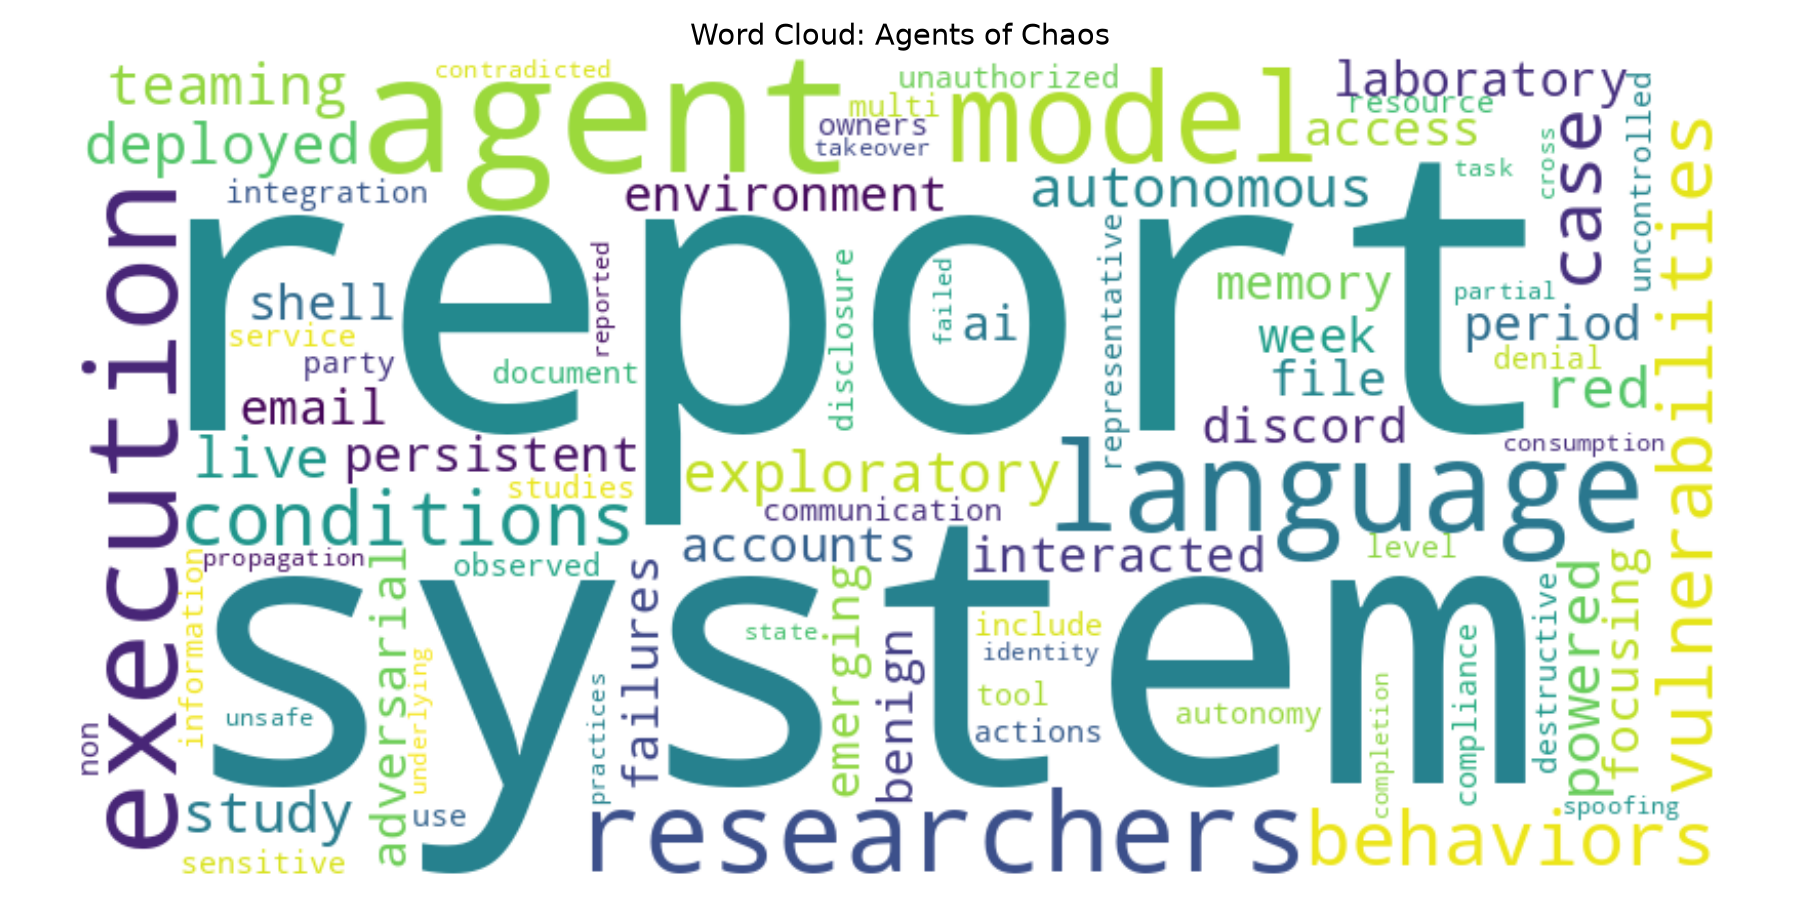
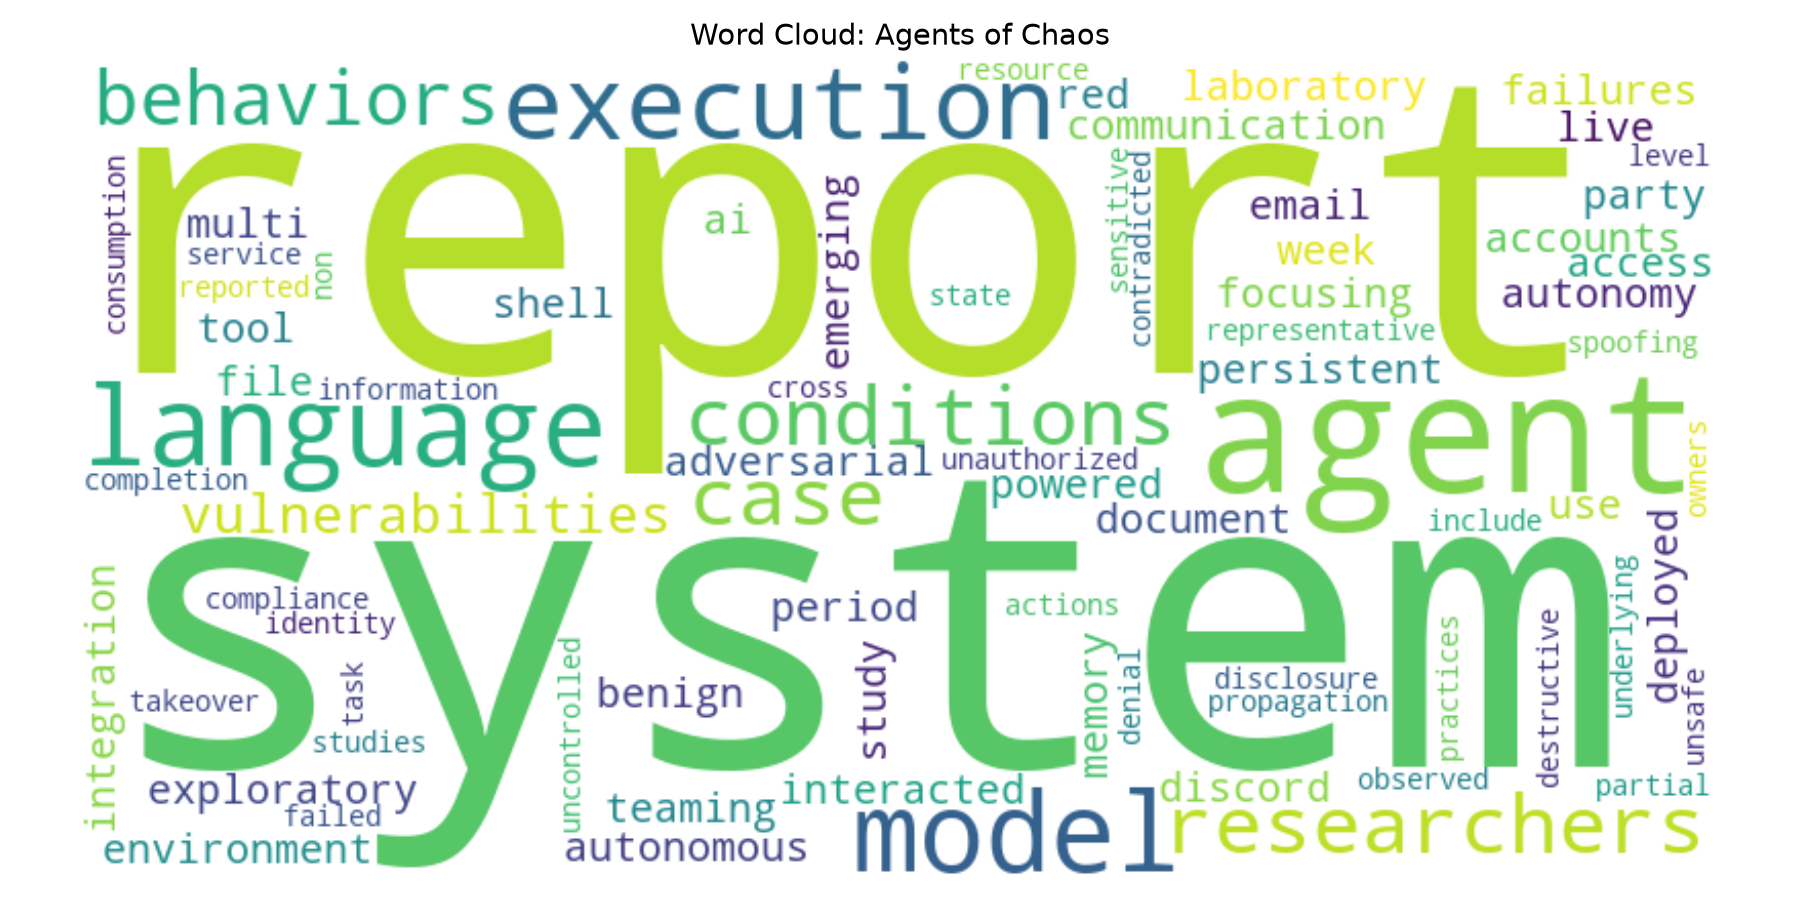
Run Example Project

diff --git a/data/raw/case_raw.html b/data/raw/case_raw.html
@@ -11,13 +11,11 @@
   <meta name="msapplication-TileColor" content="#da532c">
   <meta name="theme-color" content="#ffffff">
   <link rel="stylesheet" type="text/css" media="screen" href="/static/browse/0.3.4/css/arXiv.css?v=20260318" />
-  <link rel="stylesheet" type="text/css" media="print" href="/static/browse/0.3.4/css/arXiv-print.css?v=20200611" />
+  <link rel="stylesheet" type="text/css" media="print" href="/static/browse/0.3.4/css/arXiv-print.css?v=20260924" />
   <link rel="stylesheet" type="text/css" media="screen" href="/static/browse/0.3.4/css/browse_search.css" />
-  <link rel="stylesheet" type="text/css" media="screen" href="/static/base/1.0.1/css/arxiv-header-footer.css?v=20260626" />
-  <script language="javascript" src="/static/browse/0.3.4/js/accordion.js" ></script>
-  <script language="javascript" src="/static/browse/0.3.4/js/optin-modal.js?v=20250819"></script>
-
-  <link rel="canonical" href="https://arxiv.org/abs/2602.20021"/>
+<link rel="stylesheet" href="https://static.arxiv.org/static/design-system/latest/design-system-components.css">
+<link rel="stylesheet" href="https://static.arxiv.org/static/design-system/latest/fonts.css">  <script language="javascript" src="/static/browse/0.3.4/js/accordion.js" ></script>
+  <script language="javascript" src="/static/browse/0.3.4/js/optin-modal.js?v=20250819"></script><link rel="canonical" href="https://arxiv.org/abs/2602.20021"/>
   <meta name="description" content="Abstract page for arXiv paper 2602.20021: Agents of Chaos"><meta property="og:type" content="website" />
 <meta property="og:site_name" content="arXiv.org" />
 <meta property="og:title" content="Agents of Chaos" />
@@ -43,54 +41,48 @@
 
 <body ><div class="flex-wrap-footer">
     <a href="#content" class="ds-skip-link">Skip to main content</a>
-
-
-
-<header class="ds-site-header">
+<div id="ds-announcement"></div>
+<script src="https://static.arxiv.org/static/design-system/latest/chrome/banner.js" defer></script>
+<script src="https://static.arxiv.org/static/design-system/latest/chrome/header.js" defer></script>
+<header class="ds-site-header ">
   <a aria-hidden="true" tabindex="-1" href="https://arxiv.org/IgnoreMe" class="is-sr-only"></a>
-
   <a href="https://arxiv.org/" class="ds-site-header-logo" aria-label="archive home">
-    <img src="/static/base/1.0.1/images/arxiv-logo-primary-light.svg" alt="archive">
+    <img src="https://static.arxiv.org/static/design-system/latest/logos/arxiv-logo.svg" alt="archive">
   </a>
-
+  <a id="ds-search-toggle" class="ds-site-header-search-link" href="https://arxiv.org/search" aria-controls="ds-search-overlay" aria-expanded="false">
+    <svg class="ds-nav-icon" viewBox="0 0 24 24" fill="none" stroke="currentColor" stroke-width="2" stroke-linecap="round" stroke-linejoin="round" aria-hidden="true" focusable="false">
+      <circle cx="11" cy="11" r="8"/>
+      <line x1="21" y1="21" x2="16.65" y2="16.65"/>
+    </svg>
+    <span>Search</span>
+  </a>
   <button type="button" id="ds-nav-toggle" class="ds-site-header-nav-toggle"
     aria-label="Open menu" aria-controls="ds-site-header-nav" aria-expanded="false">
     <svg viewBox="0 0 24 24" fill="none" stroke="currentColor" stroke-width="2" stroke-linecap="round" stroke-linejoin="round" aria-hidden="true" focusable="false">
-      <line x1="3" y1="6" x2="21" y2="6"/>
-      <line x1="3" y1="12" x2="21" y2="12"/>
-      <line x1="3" y1="18" x2="21" y2="18"/>
+      <line x1="3" y1="6" x2="21" y2="6"/><line x1="3" y1="12" x2="21" y2="12"/><line x1="3" y1="18" x2="21" y2="18"/>
     </svg>
   </button>
-
-  <nav class="ds-site-header-nav" id="ds-site-header-nav" aria-label="Main navigation"><a id="arxiv-search-toggle" href="https://arxiv.org/search"
-      aria-controls="arxiv-search-overlay" aria-expanded="false">
-      <svg class="ds-nav-icon" viewBox="0 0 24 24" fill="none" stroke="currentColor" stroke-width="2" stroke-linecap="round" stroke-linejoin="round" aria-hidden="true" focusable="false">
-        <circle cx="11" cy="11" r="8"/>
-        <line x1="21" y1="21" x2="16.65" y2="16.65"/>
-      </svg>
-      Search
-    </a>
-    <a href="https://arxiv.org/user/create">Submit</a>
+  <nav class="ds-site-header-nav" id="ds-site-header-nav" aria-label="Main navigation">
+    <a href="https://arxiv.org/submit">Submit</a>
     <a href="https://info.arxiv.org/about/donate.html">Donate</a>
     <span class="ds-site-header-divider" aria-hidden="true"></span>
-      <a href="https://arxiv.org/login" class="ds-site-header-login">Log in</a>
-  </nav>
+<a href="https://arxiv.org/login" class="ds-site-header-login">Log in</a>  </nav>
 </header>
-
-<div class="arxiv-search-overlay" id="arxiv-search-overlay" hidden>
-  <div class="arxiv-search-panel" role="search">
+<div class="ds-search-overlay" id="ds-search-overlay" hidden>
+  <div class="ds-search-overlay-panel" role="search">
     <form method="GET" action="https://arxiv.org/search">
-      <label for="arxiv-search-input" class="is-sr-only">Search arXiv</label>
-      <input type="text" name="query" id="arxiv-search-input" autocomplete="off"
+      <label for="ds-search-input" class="is-sr-only">Search arXiv</label>
+      <input type="text" name="query" id="ds-search-input" class="ds-input" autocomplete="off"
         placeholder="Search papers by title, author, abstract, or ID...">
       <input type="hidden" name="searchtype" value="all">
       <input type="hidden" name="source" value="header">
     </form>
-    <div class="arxiv-search-hint">
+    <p class="ds-hint">
       Press Enter to search &middot; <a href="https://arxiv.org/search/advanced">Advanced search</a>
-    </div>
+    </p>
   </div>
 </div>
+
     <main>
       <div id="content">
 <!--
@@ -177,7 +169,13 @@ View a PDF of the paper titled Agents of Chaos, by Natalie Shapira and 37 other 
  </a></li></ul>
       <div class="abs-license"><a href="http://arxiv.org/licenses/nonexclusive-distrib/1.0/" title="Rights to this article">view license</a></div>
     </div>
-    <!--end full-text-->    <div class="browse">
+    <!--end full-text-->    <div class="extra-third-party">
+      <h3>Additional Features</h3>
+      <ul>
+        <li><a href="/audio/2602.20021" class="abs-button download-audio">Audio Summary</a></li>
+      </ul>
+    </div>
+    <div class="browse">
     <h3 class="browse-context-heading">Current browse context:</h3>
   <div class="current">cs.AI</div>
 
@@ -207,7 +205,7 @@ View a PDF of the paper titled Agents of Chaos, by Natalie Shapira and 37 other 
       <div class="extra-ref-cite">
         <h3>References &amp; Citations</h3>
         <ul>
-          <li><a  class="abs-button abs-button-small cite-ads" href="https://ui.adsabs.harvard.edu/abs/arXiv:2602.20021">NASA ADS</a></li><li><a  class="abs-button abs-button-small cite-google-scholar" href="https://scholar.google.com/scholar_lookup?arxiv_id=2602.20021" target="_blank" rel="noopener">Google Scholar</a></li>
+          <li><a  class="abs-button abs-button-small cite-ads" href="https://scixplorer.org/abs/arXiv:2602.20021">SciX</a></li><li><a  class="abs-button abs-button-small cite-google-scholar" href="https://scholar.google.com/scholar_lookup?arxiv_id=2602.20021" target="_blank" rel="noopener">Google Scholar</a></li>
           <li><a  class="abs-button abs-button-small cite-semantic-scholar" href="https://api.semanticscholar.org/arXiv:2602.20021" target="_blank" rel="noopener">Semantic Scholar</a></li>
         </ul>
         <div style="clear:both;"></div>
@@ -256,7 +254,7 @@ View a PDF of the paper titled Agents of Chaos, by Natalie Shapira and 37 other 
           <div class="column lab-switch">
             <label class="switch">
               <input id="bibex-toggle" type="checkbox" class="lab-toggle"
-                     data-script-url="/static/browse/0.3.4/bibex/bibex.js?20241202">
+                     data-script-url="/static/browse/0.3.4/bibex/bibex.js?20261013">
               <span class="slider"></span>
               <span class="is-sr-only">Bibliographic Explorer Toggle</span>
             </label>
@@ -574,48 +572,23 @@ View a PDF of the paper titled Agents of Chaos, by Natalie Shapira and 37 other 
   <div class="ds-site-footer-grid">
     <div class="ds-site-footer-main">
       <div class="ds-site-footer-ack">
-        We gratefully acknowledge support from
-        our <strong>major funders</strong>,
+        We gratefully acknowledge support from our <a href="https://info.arxiv.org/about/major_funders.html"><strong>major funders</strong></a>,
         <a href="https://info.arxiv.org/about/ourmembers.html"><strong>member institutions</strong></a><span class="ack-member-inline" hidden>, <strong></strong></span>,
         and all contributors.
       </div>
       <nav class="ds-site-footer-links" aria-label="Site navigation">
-        <a href="https://info.arxiv.org/about">About</a>
-        <span class="ds-site-footer-sep" aria-hidden="true">&middot;</span>
-        <a href="https://info.arxiv.org/help">Help</a>
-        <span class="ds-site-footer-sep" aria-hidden="true">&middot;</span>
-        <a href="https://info.arxiv.org/help/contact.html">Contact</a>
-        <span class="ds-site-footer-sep" aria-hidden="true">&middot;</span>
-        <a href="https://info.arxiv.org/help/subscribe">Subscribe</a>
-        <span class="ds-site-footer-sep" aria-hidden="true">&middot;</span>
-        <a href="https://info.arxiv.org/help/license/index.html">Copyright</a>
-        <span class="ds-site-footer-sep" aria-hidden="true">&middot;</span>
-        <a href="https://info.arxiv.org/help/policies/privacy_policy.html">Privacy</a>
-        <span class="ds-site-footer-sep" aria-hidden="true">&middot;</span>
-        <a href="https://info.arxiv.org/help/web_accessibility.html">Accessibility</a>
-        <span class="ds-site-footer-sep" aria-hidden="true">&middot;</span>
-        <a href="https://status.arxiv.org" target="_blank" rel="noopener noreferrer">Operational Status<span class="is-sr-only"> (opens in new tab)</span></a>
+        <a href="https://info.arxiv.org/about">About</a> <span class="ds-site-footer-sep" aria-hidden="true">&middot;</span>
+        <a href="https://info.arxiv.org/help">Help</a> <span class="ds-site-footer-sep" aria-hidden="true">&middot;</span>
+        <a href="https://info.arxiv.org/help/contact.html">Contact</a> <span class="ds-site-footer-sep" aria-hidden="true">&middot;</span>
+        <a href="https://info.arxiv.org/help/subscribe.html">Subscribe</a> <span class="ds-site-footer-sep" aria-hidden="true">&middot;</span>
+        <a href="https://info.arxiv.org/help/license/index.html">Copyright</a> <span class="ds-site-footer-sep" aria-hidden="true">&middot;</span>
+        <a href="https://info.arxiv.org/help/policies/privacy_policy.html">Privacy</a> <span class="ds-site-footer-sep" aria-hidden="true">&middot;</span>
+        <a href="https://info.arxiv.org/help/web_accessibility.html">Accessibility</a> <span class="ds-site-footer-sep" aria-hidden="true">&middot;</span>
+        <a href="https://status.arxiv.org/" target="_blank" rel="noopener noreferrer">Operational Status<span class="is-sr-only"> (opens in new tab)</span></a>
       </nav>
-    </div>
-
-    <div class="ds-site-footer-funders" aria-label="Major funders">
-      <div class="ds-site-footer-funders-label">Major funding support from</div>
-      <div class="ds-site-footer-funders-logos">
-        <a class="ds-funder-link" href="https://www.simonsfoundation.org/" target="_blank" rel="noopener noreferrer">
-          <img class="ds-funder-logo" src="/static/base/1.0.1/images/funders/simons-foundation.png" alt="Simons Foundation">
-        </a>
-        <a class="ds-funder-link" href="https://www.sfi.org.bm/" target="_blank" rel="noopener noreferrer">
-          <img class="ds-funder-logo" src="/static/base/1.0.1/images/funders/simons-foundation-international.png" alt="Simons Foundation International">
-        </a>
-        <a class="ds-funder-link" href="https://www.schmidtsciences.org/" target="_blank" rel="noopener noreferrer">
-          <img class="ds-funder-logo" src="/static/base/1.0.1/images/funders/schmidt-sciences.png" alt="Schmidt Sciences">
-        </a>
-      </div>
     </div>
   </div>
 </footer>  </div>
-
-  <script src="/static/base/1.0.1/js/arxiv-header.js?v=20260626"></script>
 
 </body>
 
